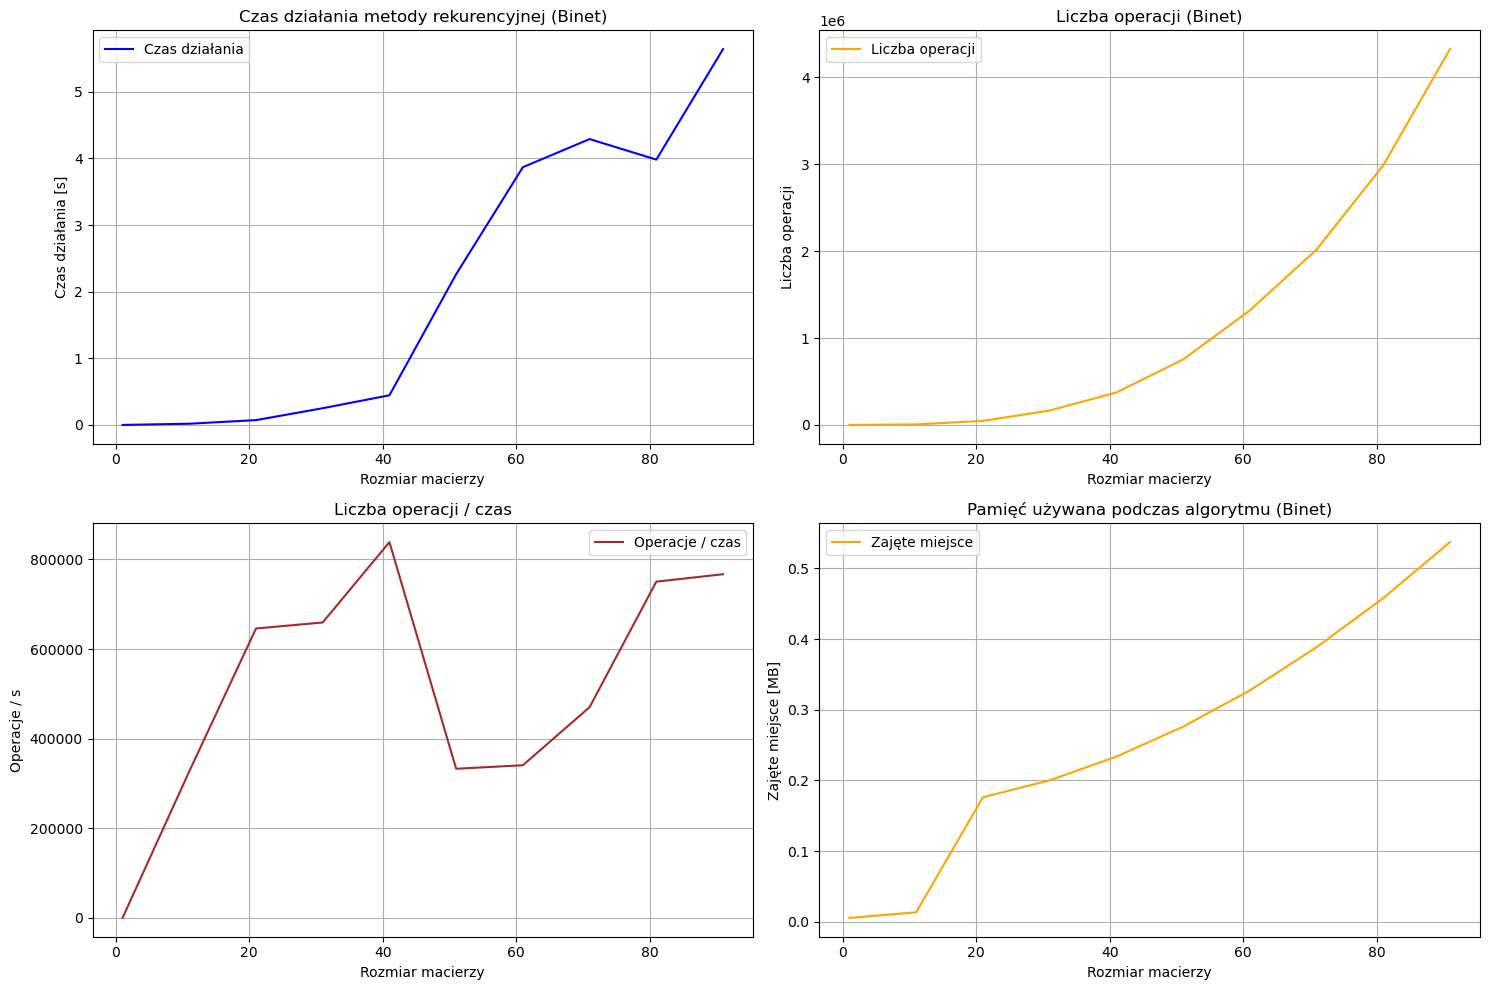
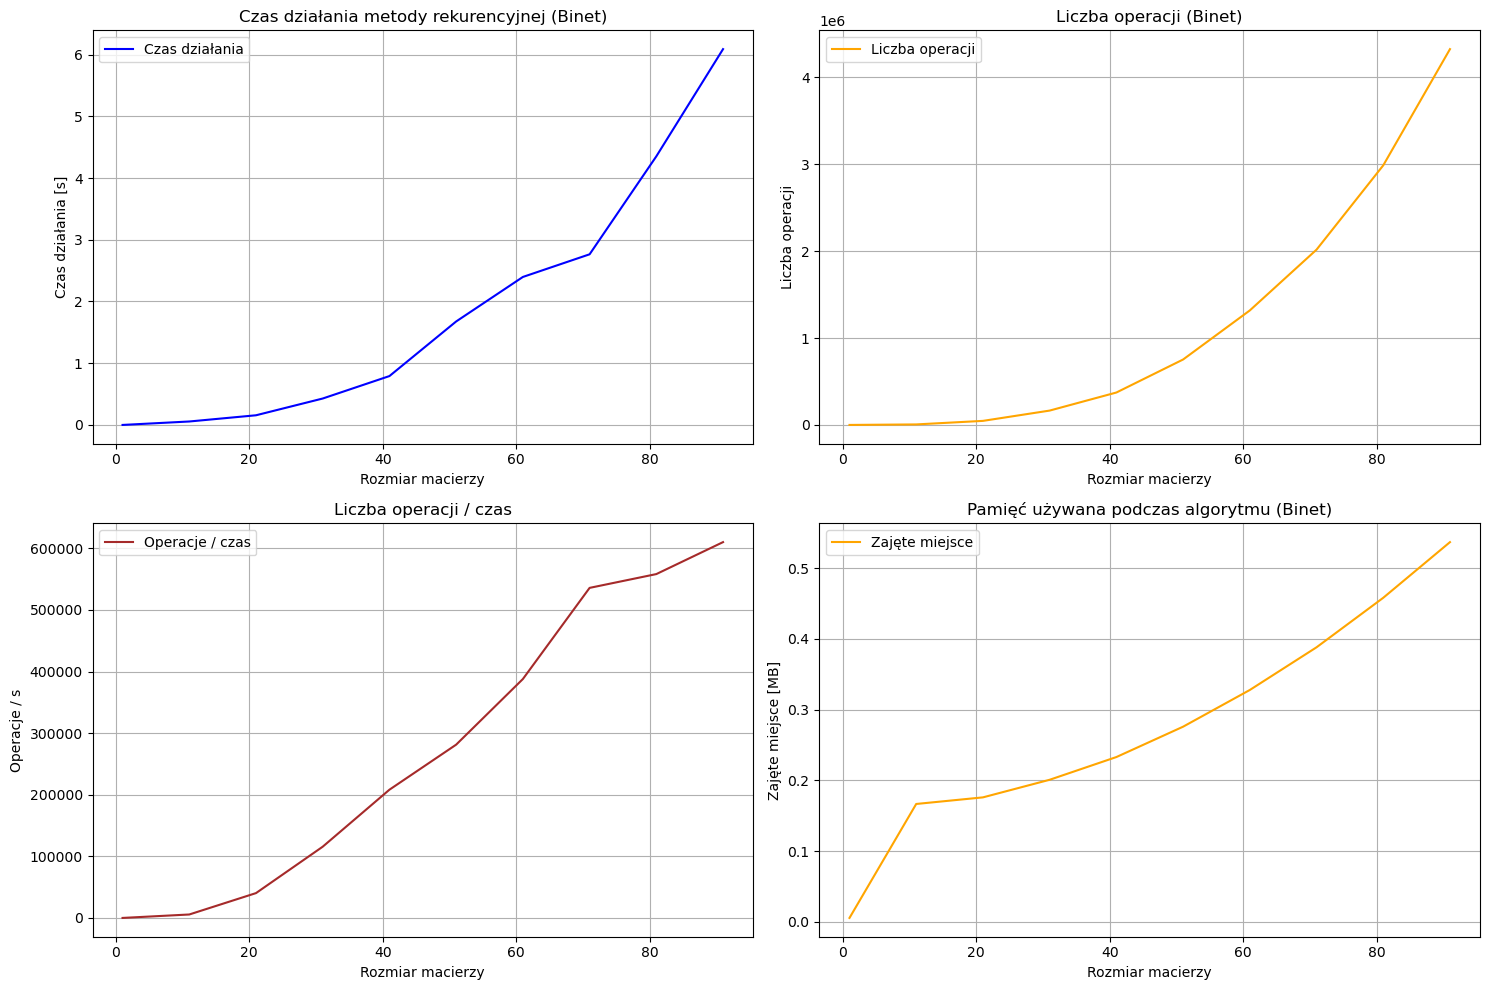
recursive fix

diff --git a/lab2/functions.py b/lab2/functions.py
@@ -10,63 +10,27 @@ def recursive_inverse(A, mat_mul):
         inv[0][0] = 1.0 / A[0][0]
         return inv
     
-    if n == 2:
-        det = A[0][0] * A[1][1] - A[0][1] * A[1][0]
-        common.counter_mul += 3
-        common.counter_sub += 1
-        
-        inv = np.zeros((2, 2))
-        inv[0][0] = A[1][1] / det
-        inv[0][1] = -A[0][1] / det
-        inv[1][0] = -A[1][0] / det
-        inv[1][1] = A[0][0] / det
-        common.counter_mul += 4
-        common.counter_sub += 2
-        return inv
+    k = n // 2
     
-    mid = n // 2
-    
-    A11 = A[:mid, :mid]
-    A12 = A[:mid, mid:]
-    A21 = A[mid:, :mid]
-    A22 = A[mid:, mid:]
-    
-    A22_inv = recursive_inverse(A22, mat_mul)
-    
-    A22_inv_A21 = mat_mul(A22_inv, A21)
-    A12_A22_inv_A21 = mat_mul(A12, A22_inv_A21)
-    S = common.mat_sub(A11, A12_A22_inv_A21)
-    
-    S_inv = recursive_inverse(S, mat_mul)
-    
-    B11 = S_inv
-    
-    A12_A22_inv = mat_mul(A12, A22_inv)
-    B12 = mat_mul(S_inv, A12_A22_inv)
+    A11 = A[:k, :k]
+    A12 = A[:k, k:]
+    A21 = A[k:, :k]
+    A22 = A[k:, k:]
 
-    for row in range(B12.shape[0]):
-        for col in range(B12.shape[1]):
-            B12[row][col] = -B12[row][col]
-            common.counter_sub += 1
+    A11_inv = recursive_inverse(A11, mat_mul)
+    S22 = A22 - mat_mul(mat_mul(A21, A11_inv), A12)
+    S22_inv = recursive_inverse(S22, mat_mul)
 
-    A22_inv_A21_S_inv = mat_mul(A22_inv_A21, S_inv)
-    B21 = A22_inv_A21_S_inv.copy()
+    B11 = A11_inv + mat_mul(mat_mul(mat_mul(mat_mul(A11_inv, A12), S22_inv), A21), A11_inv)
+    B12 = -mat_mul(mat_mul(A11_inv, A12), S22_inv)
+    B21 = -mat_mul(mat_mul(S22_inv, A21), A11_inv)
+    B22 = S22_inv
+    
+    result = np.block([
+        [B11, B12],
+        [B21, B22]
+    ])
 
-    for row in range(B21.shape[0]):
-        for col in range(B21.shape[1]):
-            B21[row][col] = -B21[row][col]
-            common.counter_sub += 1
-    
-    A22_inv_A21_S_inv_A12 = mat_mul(A22_inv_A21_S_inv, A12)
-    A22_inv_A21_S_inv_A12_A22_inv = mat_mul(A22_inv_A21_S_inv_A12, A22_inv)
-    B22 = common.mat_add(A22_inv, A22_inv_A21_S_inv_A12_A22_inv)
-    
-    result = np.zeros((n, n))
-    result[:mid, :mid] = B11
-    result[:mid, mid:] = B12
-    result[mid:, :mid] = B21
-    result[mid:, mid:] = B22
-    
     return result
 
 def LU_factorization(A, mat_mul):
